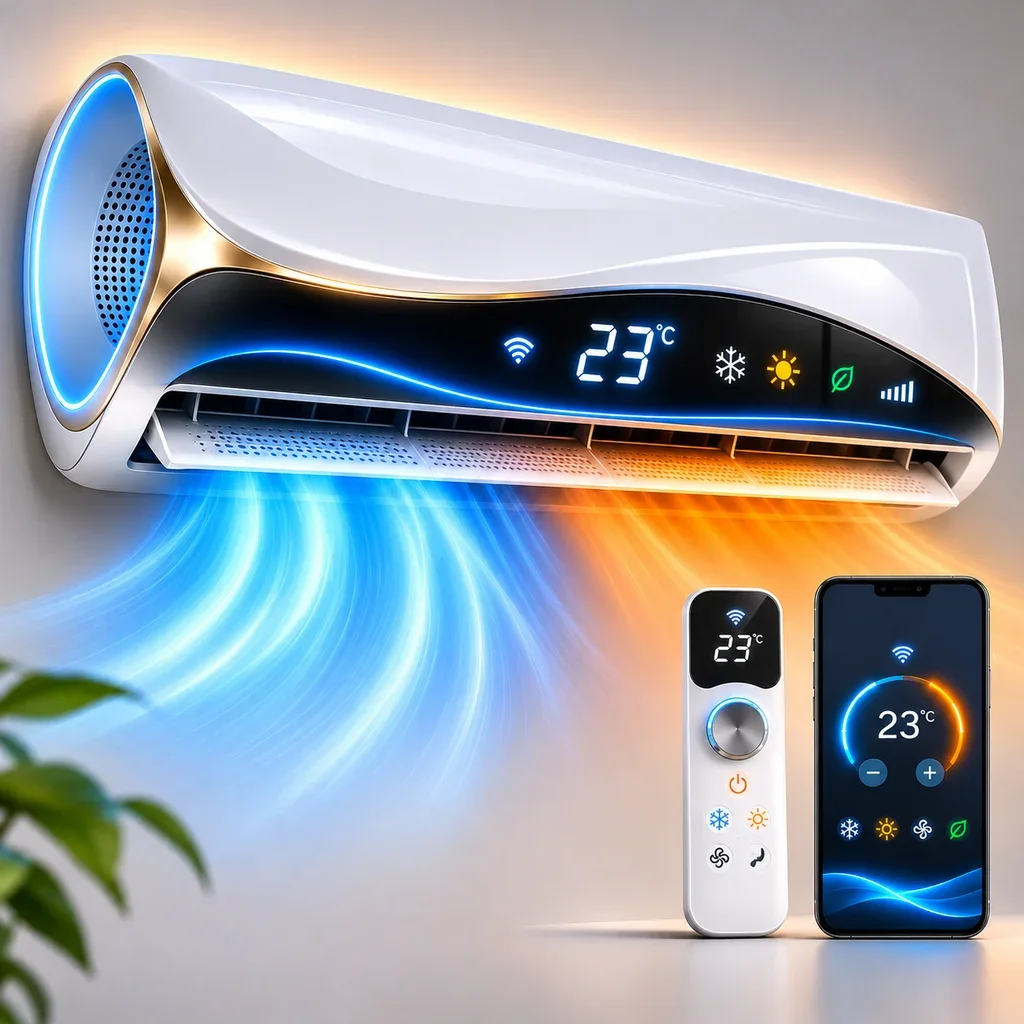
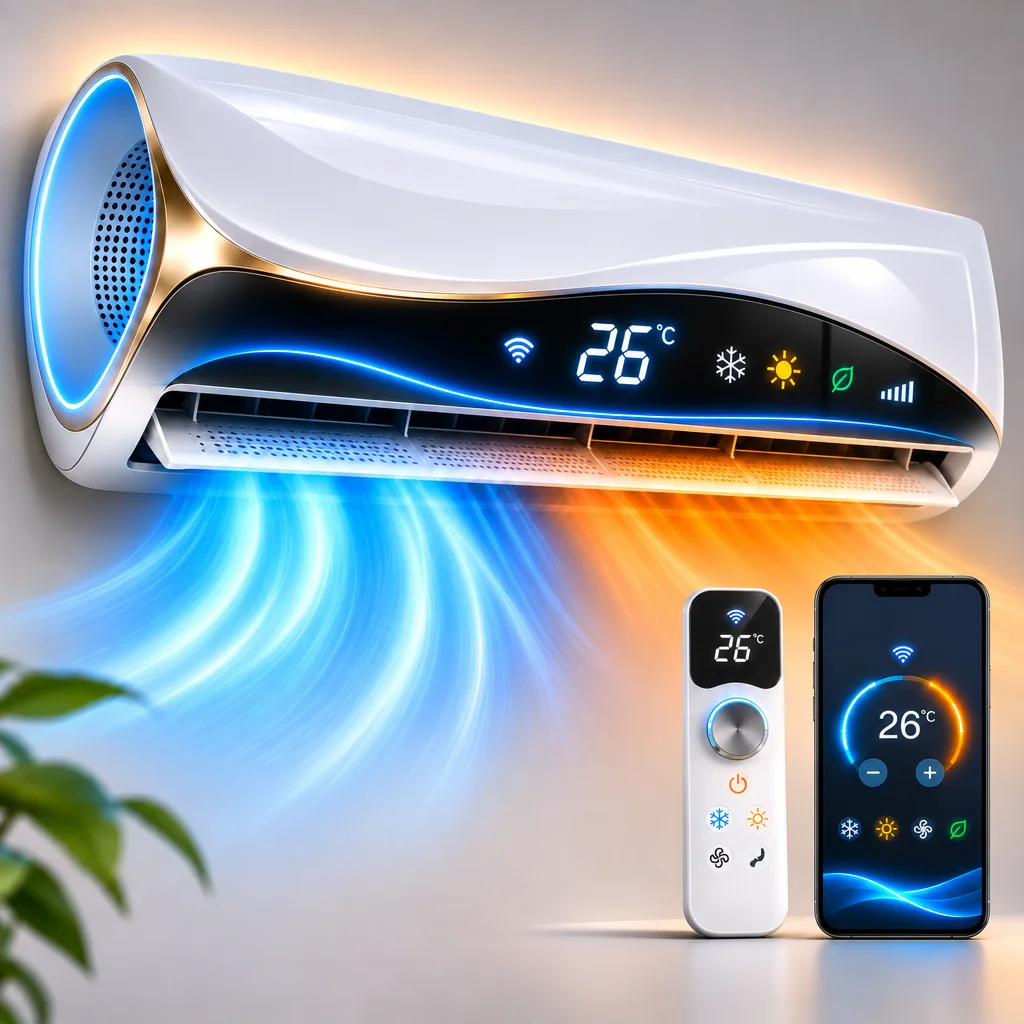
feat(it): hero a 26° + sezione recensioni UGC (25/26/28) per CLIMERA Elite e AirClima X
Hero rigenerate (edit 23->26 su display/telecomando/app). Aggiunta sezione aex-rev con 3
recensioni e foto UGC super-realistiche (montaggio 25, salone 26, studio 28), coerenti col
prodotto. 8 immagini via generatore. Cache-bust hero ?v=2.

diff --git a/it/climera-elite/landing.html b/it/climera-elite/landing.html
@@ -28,7 +28,7 @@
  "@context": "https://schema.org",
  "@type": "Product",
  "name": "CLIMERA Elite",
- "image": "https://devicefindhub.com/assets/img/products/climera-elite/hero.webp?v=1",
+ "image": "https://devicefindhub.com/assets/img/products/climera-elite/hero.webp?v=2",
  "description": "Climatizzatore inverter 18.000 BTU 4-in-1 a parete, senza unità esterna, che riscalda, raffredda, deumidifica e purifica oltre 120 m² in pochi minuti grazie allo scambiatore di calore intelligente.",
  "brand": { "@type": "Brand", "name": "CLIMERA Elite" },
  "offers": {
@@ -110,7 +110,7 @@ window.SITE_CONFIG = {
 <h1>Climatizzatore inverter 18.000 BTU senza unità esterna: riscalda, raffredda, purifica e deumidifica oltre 120 m² <span class="trim-green-highlight">in soli 9 minuti</span></h1>
 <p class="trim-subtitle">Con lo <strong>scambiatore di calore intelligente</strong> di CLIMERA Elite risparmi <strong>oltre l'82%</strong> rispetto alle stufette elettriche e ai condizionatori tradizionali. Nessuna installazione: basta collegarlo alla presa, la <strong>staffa a muro è inclusa</strong>, e lo comandi con il <strong>telecomando o dall'app</strong> sullo smartphone.</p>
 <div class="trim-hero__image mobile-only">
-<img alt="CLIMERA Elite — climatizzatore inverter 4-in-1 a parete che scalda e raffredda" decoding="async" fetchpriority="high" height="1000" src="/assets/img/products/climera-elite/hero.webp?v=1" width="1000"/>
+<img alt="CLIMERA Elite — climatizzatore inverter 4-in-1 a parete che scalda e raffredda" decoding="async" fetchpriority="high" height="1000" src="/assets/img/products/climera-elite/hero.webp?v=2" width="1000"/>
 </div>
 <div class="c4x-price-box">
 <div class="c4x-price-top">
@@ -131,7 +131,7 @@ window.SITE_CONFIG = {
 <a class="trim-cta" href="#FORM">ORDINA ORA</a>
 </div>
 <div class="trim-hero__image desktop-only">
-<img alt="CLIMERA Elite — climatizzatore inverter 4-in-1 a parete che scalda e raffredda" decoding="async" fetchpriority="high" height="1000" src="/assets/img/products/climera-elite/hero.webp?v=1" width="1000"/>
+<img alt="CLIMERA Elite — climatizzatore inverter 4-in-1 a parete che scalda e raffredda" decoding="async" fetchpriority="high" height="1000" src="/assets/img/products/climera-elite/hero.webp?v=2" width="1000"/>
 </div>
 </div>
 </section>
@@ -181,7 +181,7 @@ window.SITE_CONFIG = {
 <h2 class="aex-sec-h2">Fuori gela, dentro aspetti il caldo — e la bolletta intanto sale?</h2>
 <div class="aex-prob__grid">
 <div class="aex-prob__img">
-<img alt="Casa fredda d'inverno con una vecchia stufa elettrica" decoding="async" height="1000" loading="lazy" src="/assets/img/products/climera-elite/problema.webp?v=1" width="1000"/>
+<img alt="Casa fredda d'inverno con una vecchia stufa elettrica" decoding="async" height="1000" loading="lazy" src="/assets/img/products/climera-elite/problema.webp?v=2" width="1000"/>
 </div>
 <div class="aex-prob__text"><p>Con il freddo è sempre la stessa scena: la casa non si scalda davvero e il contatore non si ferma mai.</p>
 <ul class="aex-prob__list"><li><span class="x">🧊</span><div>I termosifoni ci mettono un'ora e scaldano solo una stanza: tu resti infreddolito e il gas vola.</div></li><li><span class="x">🚫</span><div>Uno split? Tecnico, unità esterna, muri forati, centinaia di euro e il sì del condominio. In affitto, scordatelo.</div></li><li><span class="x">🔌</span><div>La stufetta elettrica scalda un angolo, divora corrente ed è un rischio con bambini e animali.</div></li></ul>
@@ -199,7 +199,7 @@ window.SITE_CONFIG = {
 </div>
 <div class="aex-mech__grid">
 <div class="aex-mech__img">
-<img alt="CLIMERA Elite a parete: scambiatore di calore intelligente e compressore Inverter a basso consumo" decoding="async" height="1000" loading="lazy" src="/assets/img/products/climera-elite/meccanismo.webp?v=1" width="1000"/>
+<img alt="CLIMERA Elite a parete: scambiatore di calore intelligente e compressore Inverter a basso consumo" decoding="async" height="1000" loading="lazy" src="/assets/img/products/climera-elite/meccanismo.webp?v=2" width="1000"/>
 </div>
 <div class="aex-mech__text">
 <p class="aex-mech__lead">Le vecchie stufe e i condizionatori vanno sempre al massimo e sprecano. CLIMERA Elite usa uno scambiatore di calore intelligente: il compressore Inverter modula la potenza in continuo e trasforma in caldo — o in fresco — solo l'energia che serve davvero nella stanza.</p>
@@ -218,7 +218,7 @@ window.SITE_CONFIG = {
 <div class="t77bn-rows">
 <div class="t77bn-row">
 <div class="t77bn-media">
-<img alt="Caldo e fresco in tutta la casa in 9 minuti" decoding="async" height="400" loading="lazy" src="/assets/img/products/climera-elite/benefit1.webp?v=1" width="400"/>
+<img alt="Caldo e fresco in tutta la casa in 9 minuti" decoding="async" height="400" loading="lazy" src="/assets/img/products/climera-elite/benefit1.webp?v=2" width="400"/>
 </div>
 <div class="t77bn-c">
 <div class="t77bn-ic">🔥</div>
@@ -228,7 +228,7 @@ window.SITE_CONFIG = {
 </div>
 <div class="t77bn-row t77bn-row--rev">
 <div class="t77bn-media">
-<img alt="Lo installi da solo in pochi minuti, anche in affitto" decoding="async" height="600" loading="lazy" src="/assets/img/products/climera-elite/benefit2.webp?v=1" width="600"/>
+<img alt="Lo installi da solo in pochi minuti, anche in affitto" decoding="async" height="600" loading="lazy" src="/assets/img/products/climera-elite/benefit2.webp?v=2" width="600"/>
 </div>
 <div class="t77bn-c">
 <div class="t77bn-ic">🔧</div>
@@ -238,7 +238,7 @@ window.SITE_CONFIG = {
 </div>
 <div class="t77bn-row">
 <div class="t77bn-media">
-<img alt="Un apparecchio per tutto l'anno: scalda, raffredda, deumidifica, purifica" decoding="async" height="400" loading="lazy" src="/assets/img/products/climera-elite/benefit3.webp?v=1" width="400"/>
+<img alt="Un apparecchio per tutto l'anno: scalda, raffredda, deumidifica, purifica" decoding="async" height="400" loading="lazy" src="/assets/img/products/climera-elite/benefit3.webp?v=2" width="400"/>
 </div>
 <div class="t77bn-c">
 <div class="t77bn-ic">🔄</div>
@@ -248,7 +248,7 @@ window.SITE_CONFIG = {
 </div>
 <div class="t77bn-row t77bn-row--rev">
 <div class="t77bn-media">
-<img alt="Aria pulita e asciutta con filtro lavabile" decoding="async" height="400" loading="lazy" src="/assets/img/products/climera-elite/benefit4.webp?v=1" width="400"/>
+<img alt="Aria pulita e asciutta con filtro lavabile" decoding="async" height="400" loading="lazy" src="/assets/img/products/climera-elite/benefit4.webp?v=2" width="400"/>
 </div>
 <div class="t77bn-c">
 <div class="t77bn-ic">🌬</div>
@@ -258,7 +258,7 @@ window.SITE_CONFIG = {
 </div>
 <div class="t77bn-row">
 <div class="t77bn-media">
-<img alt="Lo comandi dal telefono, silenzioso e sicuro" decoding="async" height="600" loading="lazy" src="/assets/img/products/climera-elite/benefit5.webp?v=1" width="600"/>
+<img alt="Lo comandi dal telefono, silenzioso e sicuro" decoding="async" height="600" loading="lazy" src="/assets/img/products/climera-elite/benefit5.webp?v=2" width="600"/>
 </div>
 <div class="t77bn-c">
 <div class="t77bn-ic">📱</div>
@@ -273,6 +273,35 @@ window.SITE_CONFIG = {
 </div>
 </section>
 
+<section class="aex-rev">
+<div class="aex-wrap">
+<div class="aex-rev__head">
+<h2 class="aex-sec-h2">Cosa dicono i clienti</h2>
+<p>Migliaia di case più calde d'inverno, fresche d'estate e con aria più pulita grazie a CLIMERA Elite.</p>
+</div>
+<div class="aex-rev__grid">
+<div class="aex-rev__card">
+<div class="aex-rev__photo"><img alt="CLIMERA Elite montato da un cliente, display a 25°" decoding="async" height="1000" loading="lazy" src="/assets/img/reviews/climera-elite/r1.webp?v=2" width="1000"/></div>
+<div class="aex-rev__stars">★★★★★</div>
+<p class="aex-rev__text">«L'ho montato da solo in un pomeriggio, senza tecnico e senza unità esterna. Scalda in pochi minuti e lo tengo sui 25°: la bolletta non è cambiata.»</p>
+<div class="aex-rev__name">Luca R. <span class="v">Acquisto verificato</span></div>
+</div>
+<div class="aex-rev__card">
+<div class="aex-rev__photo"><img alt="CLIMERA Elite in salone, display a 26°" decoding="async" height="1000" loading="lazy" src="/assets/img/reviews/climera-elite/r2.webp?v=2" width="1000"/></div>
+<div class="aex-rev__stars">★★★★★</div>
+<p class="aex-rev__text">«In salone adesso si sta benissimo: 26° comodi d'inverno e fresco d'estate. Un solo apparecchio al posto di stufa e condizionatore, e non ho forato nessun muro.»</p>
+<div class="aex-rev__name">Marco T. <span class="v">Acquisto verificato</span></div>
+</div>
+<div class="aex-rev__card">
+<div class="aex-rev__photo"><img alt="CLIMERA Elite nello studio, display a 28°" decoding="async" height="1000" loading="lazy" src="/assets/img/reviews/climera-elite/r3.webp?v=2" width="1000"/></div>
+<div class="aex-rev__stars">★★★★★</div>
+<p class="aex-rev__text">«Nello studio lo imposto sui 28° quando lavoro: silenzioso e lo gestisco tutto dall'app. Vivo in affitto e l'ho installato senza problemi.»</p>
+<div class="aex-rev__name">Elena P. <span class="v">Acquisto verificato</span></div>
+</div>
+</div>
+<div class="aex-cta-wrap"><a class="t77bn-cta" href="#FORM">ORDINA ORA</a></div>
+</div>
+</section>
 <section class="aex-kit">
 <div class="aex-wrap">
 <div class="aex-kit__head">
@@ -281,7 +310,7 @@ window.SITE_CONFIG = {
 <p>2 anni di garanzia + reso gratuito entro 30 giorni</p>
 </div>
 <div class="aex-kit__hero">
-<img alt="Il kit completo CLIMERA Elite nel tuo pacco" decoding="async" height="1000" loading="lazy" src="/assets/img/products/climera-elite/hero.webp?v=1" width="1000"/>
+<img alt="Il kit completo CLIMERA Elite nel tuo pacco" decoding="async" height="1000" loading="lazy" src="/assets/img/products/climera-elite/hero.webp?v=2" width="1000"/>
 </div>
 <div class="aex-kit__list"><div class="aex-kit__item"><span class="ic">🔥</span><div class="tx"><strong>1 CLIMERA Elite 4-in-1</strong><span>Il climatizzatore inverter 18.000 BTU a parete che scalda, raffredda, deumidifica e purifica, fino a oltre 120 m².</span></div></div><div class="aex-kit__item"><span class="ic">🔩</span><div class="tx"><strong>Staffa di montaggio a parete (INCLUSA <em>GRATIS</em>)</strong><span>Tutto il necessario per appenderlo da solo in pochi minuti, senza tecnico e senza rovinare la parete.</span></div></div><div class="aex-kit__item"><span class="ic">🎛</span><div class="tx"><strong>Telecomando LCD</strong><span>Regoli temperatura, modalità e timer dal divano, con display chiaro e immediato.</span></div></div><div class="aex-kit__item"><span class="ic">🌬</span><div class="tx"><strong>Filtro lavabile</strong><span>Trattiene polvere, acari e pollini; lo sciacqui e lo rimetti, senza ricambi da comprare.</span></div></div><div class="aex-kit__item"><span class="ic">📱</span><div class="tx"><strong>Accesso app e Wi-Fi</strong><span>Accendi e programmi CLIMERA Elite dal telefono, ovunque tu sia: trovi casa già alla temperatura giusta.</span></div></div><div class="aex-kit__item"><span class="ic">🔌</span><div class="tx"><strong>Cavo per presa standard</strong><span>Si collega a una normale presa di corrente: nessun impianto dedicato, nessun elettricista.</span></div></div><div class="aex-kit__item"><span class="ic">📖</span><div class="tx"><strong>Manuale in italiano</strong><span>Istruzioni semplici passo-passo per installarlo e usarlo da subito, senza complicazioni.</span></div></div><div class="aex-kit__item"><span class="ic">🛡</span><div class="tx"><strong>2 anni di garanzia + reso gratuito 30 giorni</strong><span>Lo provi a casa tua senza rischi: se non ti convince, lo restituisci gratis entro 30 giorni.</span></div></div></div>
 <div class="aex-cta-wrap"><a class="t77bn-cta" href="#FORM">ORDINA ORA</a></div>

diff --git a/it/airclima-x/landing.html b/it/airclima-x/landing.html
@@ -28,7 +28,7 @@
  "@context": "https://schema.org",
  "@type": "Product",
  "name": "AirClima X",
- "image": "https://devicefindhub.com/assets/img/products/airclima-x/hero.webp?v=1",
+ "image": "https://devicefindhub.com/assets/img/products/airclima-x/hero.webp?v=2",
  "description": "Climatizzatore inverter 18.000 BTU 4-in-1 a parete, senza unità esterna, che riscalda, raffredda, deumidifica e purifica oltre 120 m² in pochi minuti grazie allo scambiatore di calore intelligente.",
  "brand": { "@type": "Brand", "name": "AirClima X" },
  "offers": {
@@ -110,7 +110,7 @@ window.SITE_CONFIG = {
 <h1>Climatizzatore inverter 18.000 BTU senza unità esterna: riscalda, raffredda, purifica e deumidifica oltre 120 m² <span class="trim-green-highlight">in soli 9 minuti</span></h1>
 <p class="trim-subtitle">Con lo <strong>scambiatore di calore intelligente</strong> di AirClima X risparmi <strong>oltre l'82%</strong> rispetto alle stufette elettriche e ai condizionatori tradizionali. Nessuna installazione: basta collegarlo alla presa, la <strong>staffa a muro è inclusa</strong>, e lo comandi con il <strong>telecomando o dall'app</strong> sullo smartphone.</p>
 <div class="trim-hero__image mobile-only">
-<img alt="AirClima X — climatizzatore inverter 4-in-1 a parete che scalda e raffredda" decoding="async" fetchpriority="high" height="1000" src="/assets/img/products/airclima-x/hero.webp?v=1" width="1000"/>
+<img alt="AirClima X — climatizzatore inverter 4-in-1 a parete che scalda e raffredda" decoding="async" fetchpriority="high" height="1000" src="/assets/img/products/airclima-x/hero.webp?v=2" width="1000"/>
 </div>
 <div class="c4x-price-box">
 <div class="c4x-price-top">
@@ -131,7 +131,7 @@ window.SITE_CONFIG = {
 <a class="trim-cta" href="#FORM">ORDINA ORA</a>
 </div>
 <div class="trim-hero__image desktop-only">
-<img alt="AirClima X — climatizzatore inverter 4-in-1 a parete che scalda e raffredda" decoding="async" fetchpriority="high" height="1000" src="/assets/img/products/airclima-x/hero.webp?v=1" width="1000"/>
+<img alt="AirClima X — climatizzatore inverter 4-in-1 a parete che scalda e raffredda" decoding="async" fetchpriority="high" height="1000" src="/assets/img/products/airclima-x/hero.webp?v=2" width="1000"/>
 </div>
 </div>
 </section>
@@ -181,7 +181,7 @@ window.SITE_CONFIG = {
 <h2 class="aex-sec-h2">Fuori gela, dentro aspetti il caldo — e la bolletta intanto sale?</h2>
 <div class="aex-prob__grid">
 <div class="aex-prob__img">
-<img alt="Casa fredda d'inverno con una vecchia stufa elettrica" decoding="async" height="1000" loading="lazy" src="/assets/img/products/airclima-x/problema.webp?v=1" width="1000"/>
+<img alt="Casa fredda d'inverno con una vecchia stufa elettrica" decoding="async" height="1000" loading="lazy" src="/assets/img/products/airclima-x/problema.webp?v=2" width="1000"/>
 </div>
 <div class="aex-prob__text"><p>Con il freddo è sempre la stessa scena: la casa non si scalda davvero e il contatore non si ferma mai.</p>
 <ul class="aex-prob__list"><li><span class="x">🧊</span><div>I termosifoni ci mettono un'ora e scaldano solo una stanza: tu resti infreddolito e il gas vola.</div></li><li><span class="x">🚫</span><div>Uno split? Tecnico, unità esterna, muri forati, centinaia di euro e il sì del condominio. In affitto, scordatelo.</div></li><li><span class="x">🔌</span><div>La stufetta elettrica scalda un angolo, divora corrente ed è un rischio con bambini e animali.</div></li></ul>
@@ -199,7 +199,7 @@ window.SITE_CONFIG = {
 </div>
 <div class="aex-mech__grid">
 <div class="aex-mech__img">
-<img alt="AirClima X a parete: scambiatore di calore intelligente e compressore Inverter a basso consumo" decoding="async" height="1000" loading="lazy" src="/assets/img/products/airclima-x/meccanismo.webp?v=1" width="1000"/>
+<img alt="AirClima X a parete: scambiatore di calore intelligente e compressore Inverter a basso consumo" decoding="async" height="1000" loading="lazy" src="/assets/img/products/airclima-x/meccanismo.webp?v=2" width="1000"/>
 </div>
 <div class="aex-mech__text">
 <p class="aex-mech__lead">Le vecchie stufe e i condizionatori vanno sempre al massimo e sprecano. AirClima X usa uno scambiatore di calore intelligente: il compressore Inverter modula la potenza in continuo e trasforma in caldo — o in fresco — solo l'energia che serve davvero nella stanza.</p>
@@ -218,7 +218,7 @@ window.SITE_CONFIG = {
 <div class="t77bn-rows">
 <div class="t77bn-row">
 <div class="t77bn-media">
-<img alt="Caldo e fresco in tutta la casa in 9 minuti" decoding="async" height="400" loading="lazy" src="/assets/img/products/airclima-x/benefit1.webp?v=1" width="400"/>
+<img alt="Caldo e fresco in tutta la casa in 9 minuti" decoding="async" height="400" loading="lazy" src="/assets/img/products/airclima-x/benefit1.webp?v=2" width="400"/>
 </div>
 <div class="t77bn-c">
 <div class="t77bn-ic">🔥</div>
@@ -228,7 +228,7 @@ window.SITE_CONFIG = {
 </div>
 <div class="t77bn-row t77bn-row--rev">
 <div class="t77bn-media">
-<img alt="Lo installi da solo in pochi minuti, anche in affitto" decoding="async" height="600" loading="lazy" src="/assets/img/products/airclima-x/benefit2.webp?v=1" width="600"/>
+<img alt="Lo installi da solo in pochi minuti, anche in affitto" decoding="async" height="600" loading="lazy" src="/assets/img/products/airclima-x/benefit2.webp?v=2" width="600"/>
 </div>
 <div class="t77bn-c">
 <div class="t77bn-ic">🔧</div>
@@ -238,7 +238,7 @@ window.SITE_CONFIG = {
 </div>
 <div class="t77bn-row">
 <div class="t77bn-media">
-<img alt="Un apparecchio per tutto l'anno: scalda, raffredda, deumidifica, purifica" decoding="async" height="400" loading="lazy" src="/assets/img/products/airclima-x/benefit3.webp?v=1" width="400"/>
+<img alt="Un apparecchio per tutto l'anno: scalda, raffredda, deumidifica, purifica" decoding="async" height="400" loading="lazy" src="/assets/img/products/airclima-x/benefit3.webp?v=2" width="400"/>
 </div>
 <div class="t77bn-c">
 <div class="t77bn-ic">🔄</div>
@@ -248,7 +248,7 @@ window.SITE_CONFIG = {
 </div>
 <div class="t77bn-row t77bn-row--rev">
 <div class="t77bn-media">
-<img alt="Aria pulita e asciutta con filtro lavabile" decoding="async" height="400" loading="lazy" src="/assets/img/products/airclima-x/benefit4.webp?v=1" width="400"/>
+<img alt="Aria pulita e asciutta con filtro lavabile" decoding="async" height="400" loading="lazy" src="/assets/img/products/airclima-x/benefit4.webp?v=2" width="400"/>
 </div>
 <div class="t77bn-c">
 <div class="t77bn-ic">🌬</div>
@@ -258,7 +258,7 @@ window.SITE_CONFIG = {
 </div>
 <div class="t77bn-row">
 <div class="t77bn-media">
-<img alt="Lo comandi dal telefono, silenzioso e sicuro" decoding="async" height="600" loading="lazy" src="/assets/img/products/airclima-x/benefit5.webp?v=1" width="600"/>
+<img alt="Lo comandi dal telefono, silenzioso e sicuro" decoding="async" height="600" loading="lazy" src="/assets/img/products/airclima-x/benefit5.webp?v=2" width="600"/>
 </div>
 <div class="t77bn-c">
 <div class="t77bn-ic">📱</div>
@@ -273,6 +273,35 @@ window.SITE_CONFIG = {
 </div>
 </section>
 
+<section class="aex-rev">
+<div class="aex-wrap">
+<div class="aex-rev__head">
+<h2 class="aex-sec-h2">Cosa dicono i clienti</h2>
+<p>Migliaia di case più calde d'inverno, fresche d'estate e con aria più pulita grazie a AirClima X.</p>
+</div>
+<div class="aex-rev__grid">
+<div class="aex-rev__card">
+<div class="aex-rev__photo"><img alt="AirClima X montato da un cliente, display a 25°" decoding="async" height="1000" loading="lazy" src="/assets/img/reviews/airclima-x/r1.webp?v=2" width="1000"/></div>
+<div class="aex-rev__stars">★★★★★</div>
+<p class="aex-rev__text">«L'ho montato da solo in un pomeriggio, senza tecnico e senza unità esterna. Scalda in pochi minuti e lo tengo sui 25°: la bolletta non è cambiata.»</p>
+<div class="aex-rev__name">Luca R. <span class="v">Acquisto verificato</span></div>
+</div>
+<div class="aex-rev__card">
+<div class="aex-rev__photo"><img alt="AirClima X in salone, display a 26°" decoding="async" height="1000" loading="lazy" src="/assets/img/reviews/airclima-x/r2.webp?v=2" width="1000"/></div>
+<div class="aex-rev__stars">★★★★★</div>
+<p class="aex-rev__text">«In salone adesso si sta benissimo: 26° comodi d'inverno e fresco d'estate. Un solo apparecchio al posto di stufa e condizionatore, e non ho forato nessun muro.»</p>
+<div class="aex-rev__name">Marco T. <span class="v">Acquisto verificato</span></div>
+</div>
+<div class="aex-rev__card">
+<div class="aex-rev__photo"><img alt="AirClima X nello studio, display a 28°" decoding="async" height="1000" loading="lazy" src="/assets/img/reviews/airclima-x/r3.webp?v=2" width="1000"/></div>
+<div class="aex-rev__stars">★★★★★</div>
+<p class="aex-rev__text">«Nello studio lo imposto sui 28° quando lavoro: silenzioso e lo gestisco tutto dall'app. Vivo in affitto e l'ho installato senza problemi.»</p>
+<div class="aex-rev__name">Elena P. <span class="v">Acquisto verificato</span></div>
+</div>
+</div>
+<div class="aex-cta-wrap"><a class="t77bn-cta" href="#FORM">ORDINA ORA</a></div>
+</div>
+</section>
 <section class="aex-kit">
 <div class="aex-wrap">
 <div class="aex-kit__head">
@@ -281,7 +310,7 @@ window.SITE_CONFIG = {
 <p>2 anni di garanzia + reso gratuito entro 30 giorni</p>
 </div>
 <div class="aex-kit__hero">
-<img alt="Il kit completo AirClima X nel tuo pacco" decoding="async" height="1000" loading="lazy" src="/assets/img/products/airclima-x/hero.webp?v=1" width="1000"/>
+<img alt="Il kit completo AirClima X nel tuo pacco" decoding="async" height="1000" loading="lazy" src="/assets/img/products/airclima-x/hero.webp?v=2" width="1000"/>
 </div>
 <div class="aex-kit__list"><div class="aex-kit__item"><span class="ic">🔥</span><div class="tx"><strong>1 AirClima X 4-in-1</strong><span>Il climatizzatore inverter 18.000 BTU a parete che scalda, raffredda, deumidifica e purifica, fino a oltre 120 m².</span></div></div><div class="aex-kit__item"><span class="ic">🔩</span><div class="tx"><strong>Staffa di montaggio a parete (INCLUSA <em>GRATIS</em>)</strong><span>Tutto il necessario per appenderlo da solo in pochi minuti, senza tecnico e senza rovinare la parete.</span></div></div><div class="aex-kit__item"><span class="ic">🎛</span><div class="tx"><strong>Telecomando LCD</strong><span>Regoli temperatura, modalità e timer dal divano, con display chiaro e immediato.</span></div></div><div class="aex-kit__item"><span class="ic">🌬</span><div class="tx"><strong>Filtro lavabile</strong><span>Trattiene polvere, acari e pollini; lo sciacqui e lo rimetti, senza ricambi da comprare.</span></div></div><div class="aex-kit__item"><span class="ic">📱</span><div class="tx"><strong>Accesso app e Wi-Fi</strong><span>Accendi e programmi AirClima X dal telefono, ovunque tu sia: trovi casa già alla temperatura giusta.</span></div></div><div class="aex-kit__item"><span class="ic">🔌</span><div class="tx"><strong>Cavo per presa standard</strong><span>Si collega a una normale presa di corrente: nessun impianto dedicato, nessun elettricista.</span></div></div><div class="aex-kit__item"><span class="ic">📖</span><div class="tx"><strong>Manuale in italiano</strong><span>Istruzioni semplici passo-passo per installarlo e usarlo da subito, senza complicazioni.</span></div></div><div class="aex-kit__item"><span class="ic">🛡</span><div class="tx"><strong>2 anni di garanzia + reso gratuito 30 giorni</strong><span>Lo provi a casa tua senza rischi: se non ti convince, lo restituisci gratis entro 30 giorni.</span></div></div></div>
 <div class="aex-cta-wrap"><a class="t77bn-cta" href="#FORM">ORDINA ORA</a></div>
